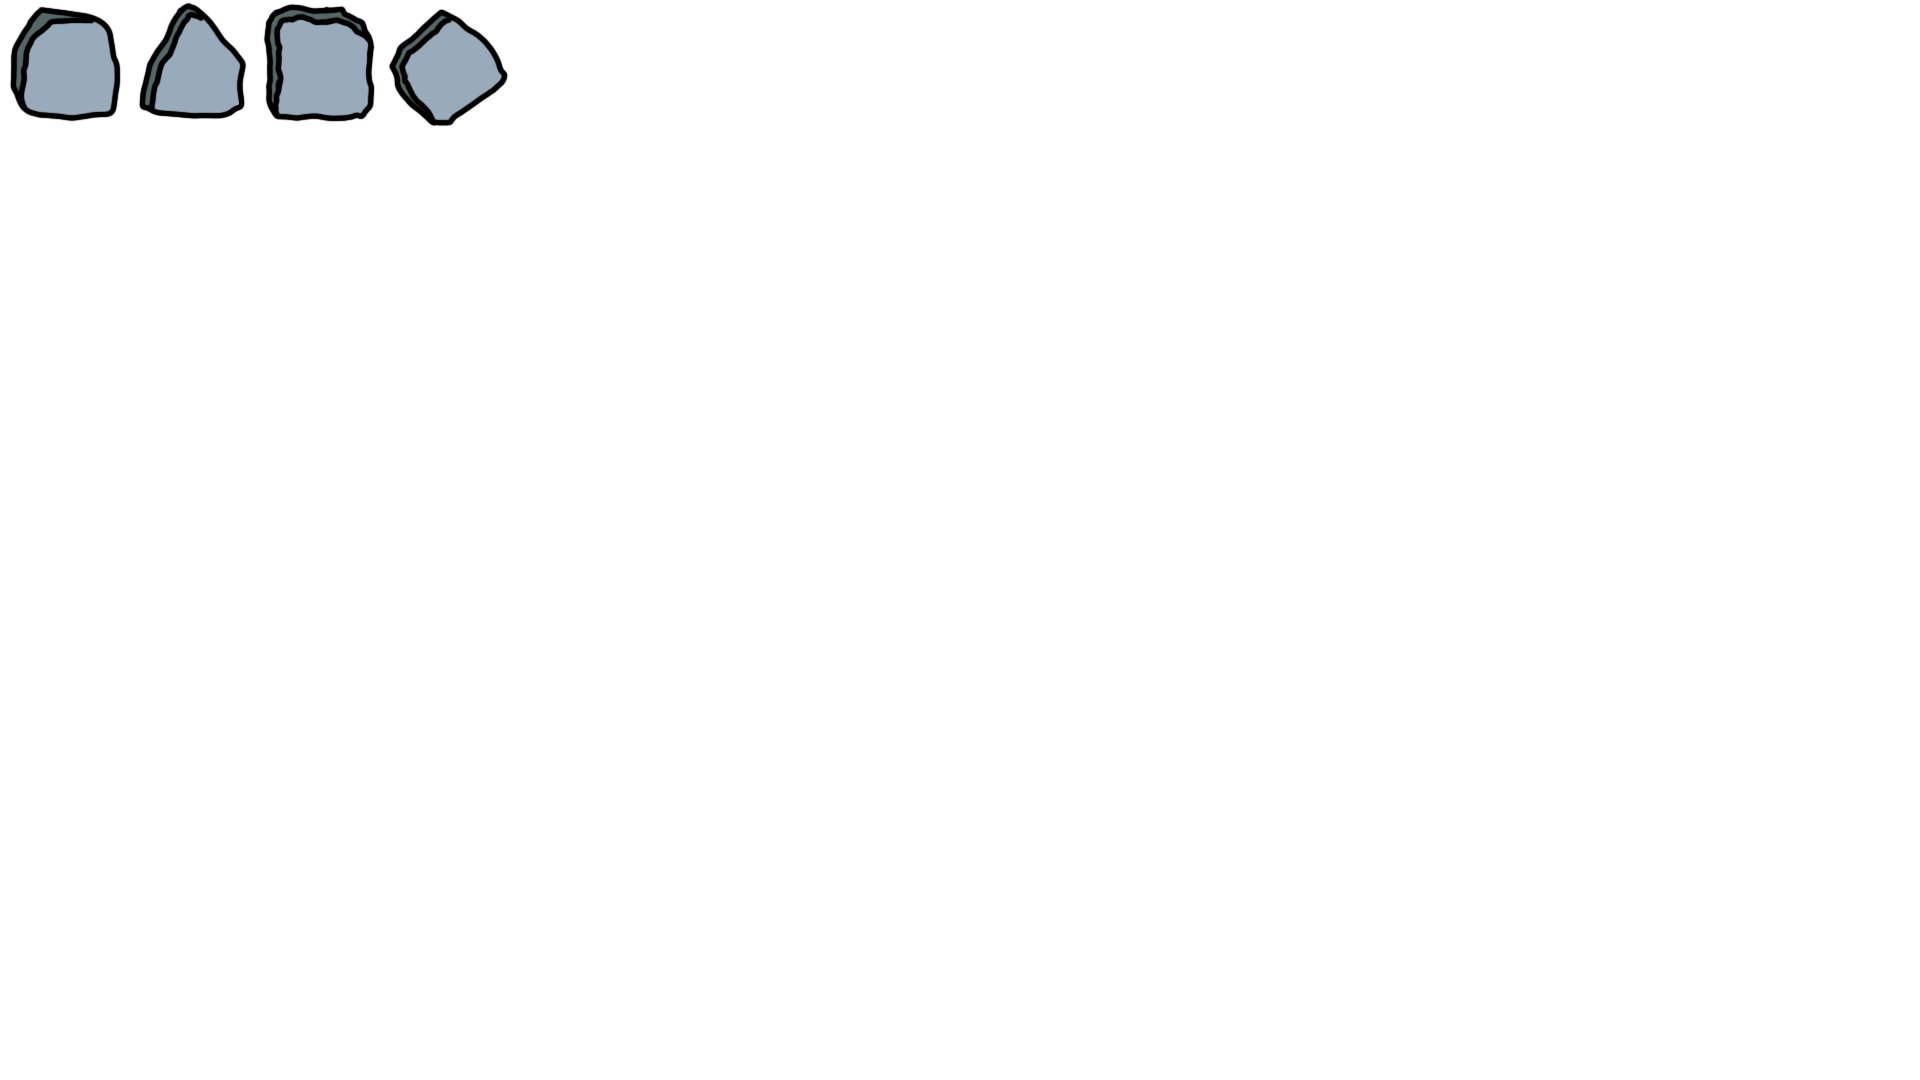
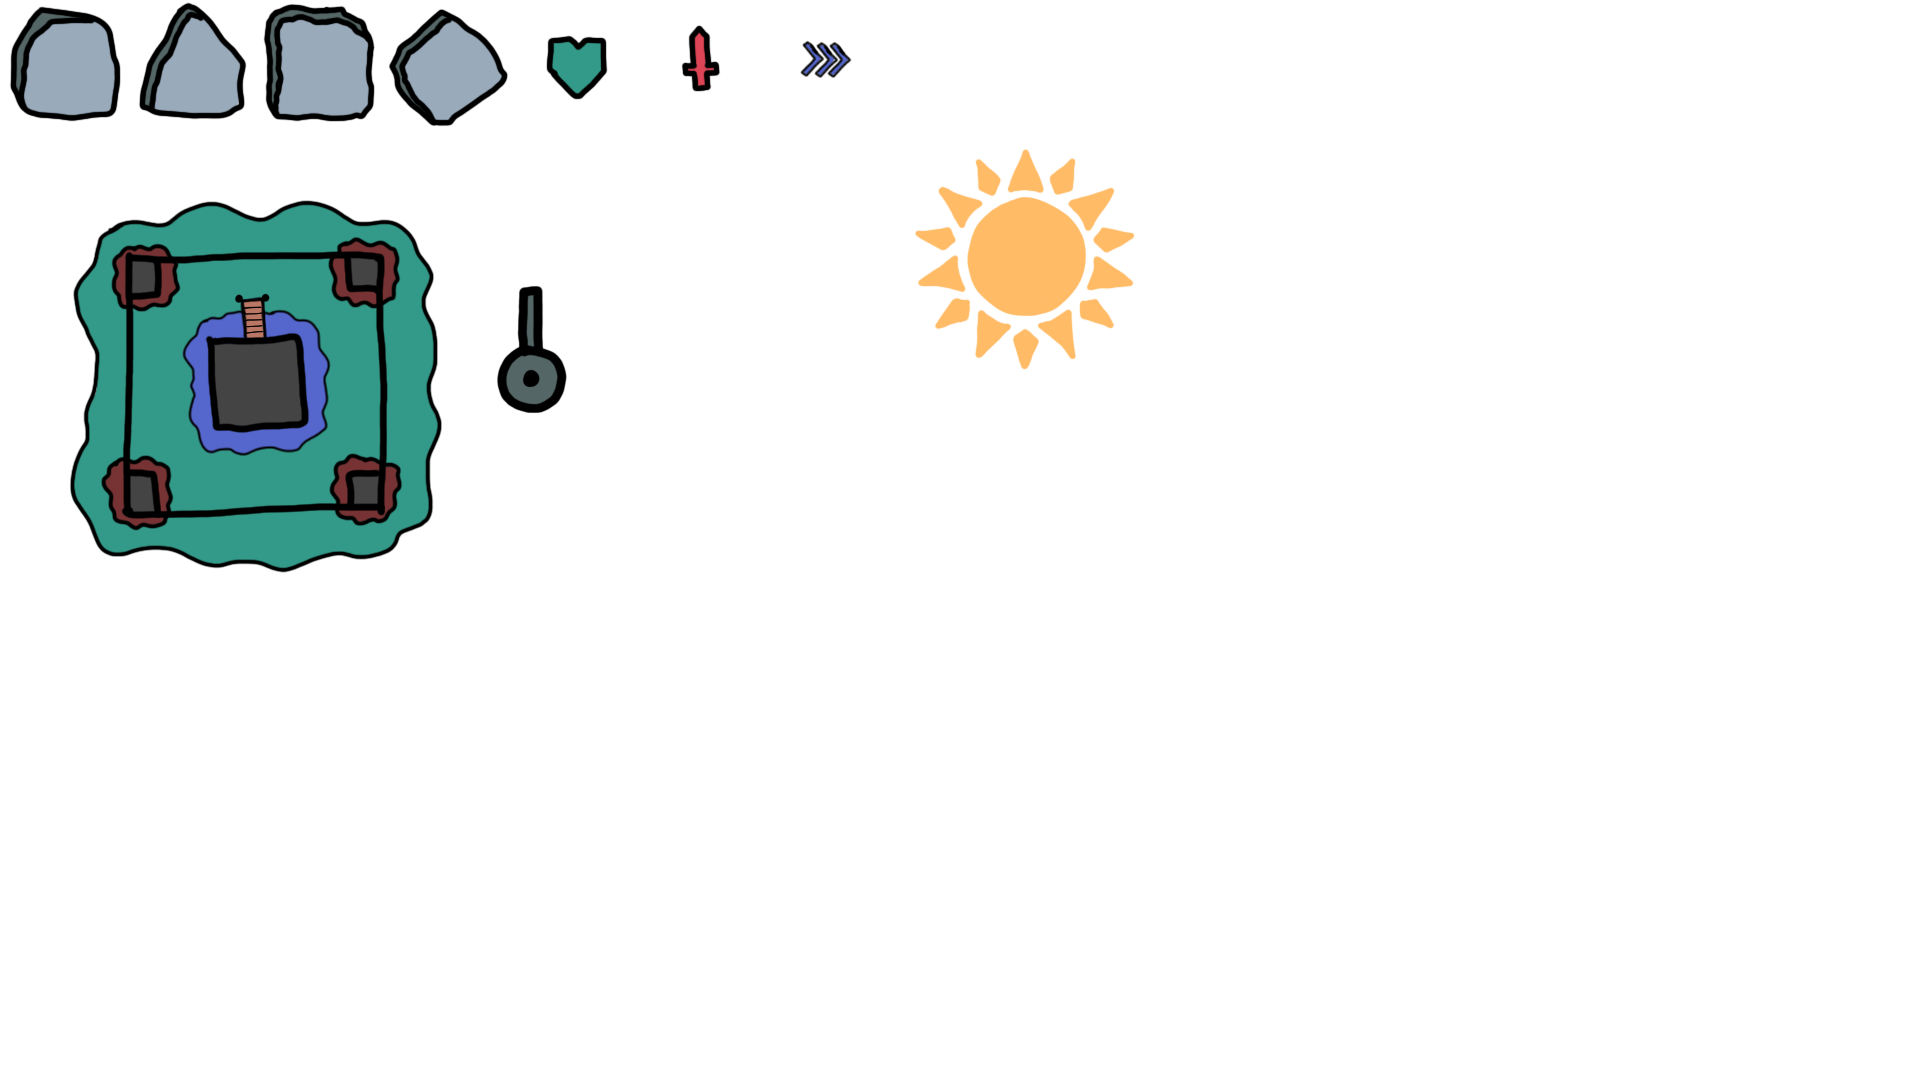
Daynight complete

diff --git a/Assets/Scripts/UI/UIController.cs b/Assets/Scripts/UI/UIController.cs
@@ -12,6 +12,8 @@ public class UIController : MonoBehaviour
     [SerializeField] private GameObject creditsScreen;
     [SerializeField] private TextMeshProUGUI curencyCounter;
     [SerializeField] private Image dayNightCycleImage;
+    [SerializeField] private Sprite daySprite, nightSprite;
+    [SerializeField] private Image fillImage;
     [SerializeField] private bool isMainMenu;
 
     private void OnEnable() 
@@ -23,6 +25,7 @@ public class UIController : MonoBehaviour
     {
         BaseHandler.OnCurrencyAmountChanged -= UpdateCurrency;
         DayNightSystem.OnDayNightIncremented -= UpdateDayNightCycle;
+        DayNightSystem.OnCycleChange -= UpdateCycleImage;
     }
     private void Initialize()
     {
@@ -37,6 +40,7 @@ public class UIController : MonoBehaviour
         settingsMenu.SetActive(false);
         BaseHandler.OnCurrencyAmountChanged += UpdateCurrency;
         DayNightSystem.OnDayNightIncremented += UpdateDayNightCycle;
+        DayNightSystem.OnCycleChange += UpdateCycleImage;
     }
     #region Menus
     private void OpenPauseMenu()
@@ -100,7 +104,21 @@ public class UIController : MonoBehaviour
 
     private void UpdateDayNightCycle()
     {
-        dayNightCycleImage.fillAmount = DayNightSystem.i.GetCurrentFillAmount();
+        fillImage.fillAmount = DayNightSystem.i.GetCurrentFillAmount();
+    }
+
+    private void UpdateCycleImage()
+    {
+        if(DayNightSystem.i.GetIsDayTime()) 
+        {
+            fillImage.sprite = daySprite;
+            dayNightCycleImage.sprite = daySprite;
+        }
+        else 
+        {
+            fillImage.sprite = nightSprite;
+            dayNightCycleImage.sprite = nightSprite;
+        }
     }
     #endregion
 }

diff --git a/Assets/Scripts/General/Systems/DayNightSystem.cs b/Assets/Scripts/General/Systems/DayNightSystem.cs
@@ -8,6 +8,7 @@ public class DayNightSystem : MonoBehaviour
 {
     public static event Action OnDayNightIncremented;
     public static event Action<bool> OnCycleComplete;
+    public static event Action OnCycleChange;
     public static event Action OnNightStarted;
     private static DayNightSystem _i;
     public static DayNightSystem i { get { return _i; } }
@@ -31,6 +32,7 @@ public class DayNightSystem : MonoBehaviour
         currentFillAmount = 0;
         cycleActive = true;
         isDaytime = true;
+        OnCycleChange?.Invoke();
     }
 
     public void InitializeNight()
@@ -38,6 +40,7 @@ public class DayNightSystem : MonoBehaviour
         currentFillAmount = 0;
         cycleActive = true;
         isDaytime = false;
+        OnCycleChange?.Invoke();
         OnNightStarted?.Invoke();
     }
 
@@ -53,4 +56,5 @@ public class DayNightSystem : MonoBehaviour
         OnDayNightIncremented?.Invoke();
     }
     public float GetCurrentFillAmount(){return currentFillAmount;}
+    public bool GetIsDayTime(){return isDaytime;}
 }
